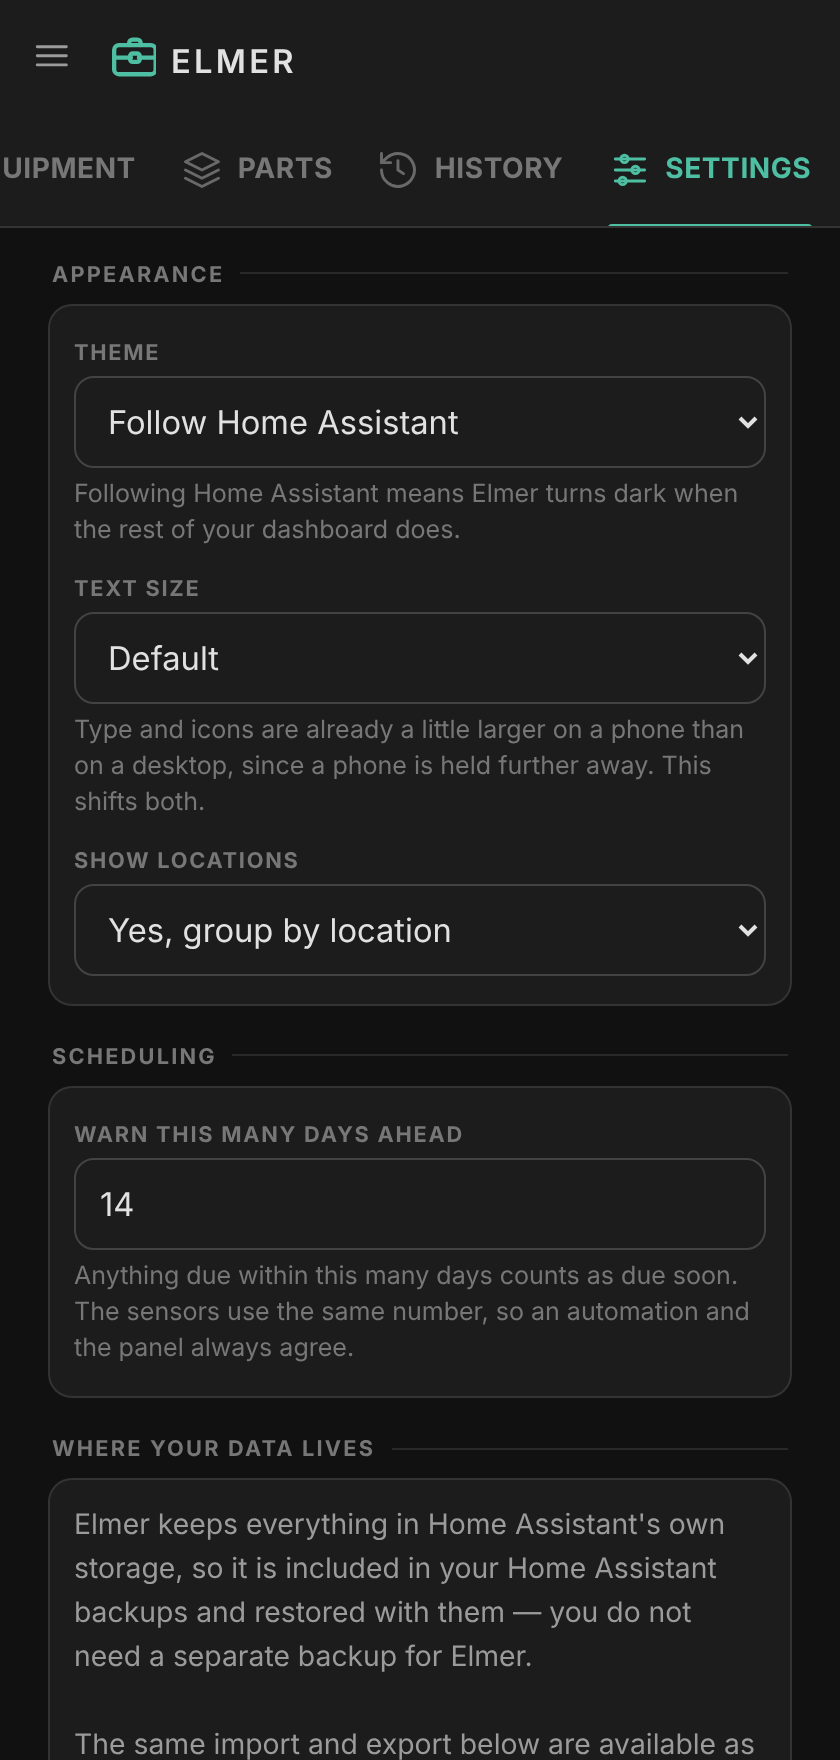
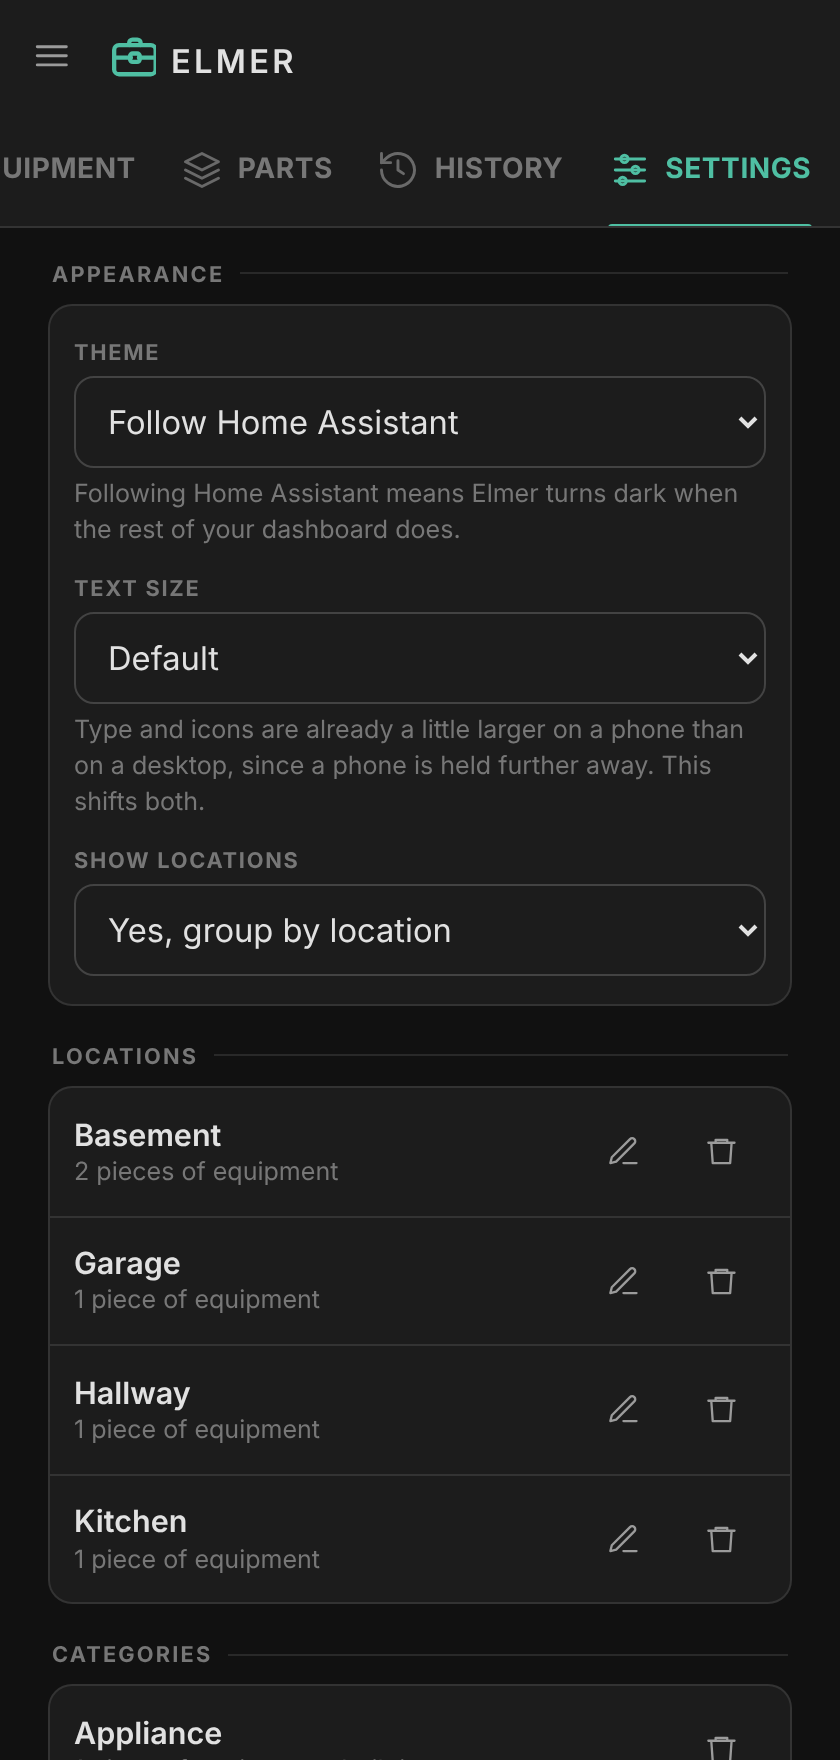
Add bulk rename/remove for groups
Add Settings entries for locations and categories, including usage counts and rename/remove actions. Renaming or clearing a group updates every matching equipment item in bulk instead of deleting records, and the verification suite now checks the derived Settings list and the equipment regrouping behavior.

diff --git a/custom_components/elmer/frontend/views.js b/custom_components/elmer/frontend/views.js
@@ -608,6 +608,68 @@ export function historyView(state) {
 
 /* --------------------------------------------------------------- settings -- */
 
+/**
+ * The locations and categories in use, with what uses them.
+ *
+ * Neither is a record of its own: they are whatever the equipment says they
+ * are. So renaming one rewrites every piece that carries it, and removing one
+ * clears the field on each — there is nothing else to delete. The count is
+ * shown because both actions touch that many pieces at once.
+ */
+export function groupsInUse(state, field) {
+  const counts = new Map();
+  for (const eq of state.equipment) {
+    const value = (eq[field] || '').trim();
+    if (!value) continue;
+    counts.set(value, (counts.get(value) || 0) + 1);
+  }
+  return [...counts.entries()]
+    .map(([value, count]) => {
+      // A category is either one of Elmer's own — which carries an icon and a
+      // name of its own, and is not ours to rename — or free text somebody
+      // typed, which is. A location is always free text.
+      const built = field === 'category' ? categoryLabel(value) : null;
+      return { value, count, label: built || value, builtIn: !!built };
+    })
+    .sort((a, b) => a.label.localeCompare(b.label));
+}
+
+function groupCard(state, field, empty) {
+  const rows = groupsInUse(state, field);
+  if (!rows.length) return html`<div class="card"><div class="note">${empty}</div></div>`;
+
+  return html`<div class="card">${rows.map((g) => {
+    const tally = `${g.count} ${g.count === 1 ? 'piece' : 'pieces'} of equipment`;
+    return html`<div class="row groprow">
+    <div class="body">
+      <div class="title">${g.label}</div>
+      <div class="sub"><span class="txt">${raw(g.builtIn ? `${esc(tally)} &middot; built in` : esc(tally))}</span></div>
+    </div>
+    ${raw(g.builtIn ? '' : html`<button class="iconbtn" data-act="rename-group" data-field="${field}" data-value="${g.value}"
+      aria-label="Rename ${g.label}">${raw(icon('edit', 16))}</button>`)}
+    <button class="iconbtn" data-act="clear-group" data-field="${field}" data-value="${g.value}"
+      data-label="${g.label}" aria-label="Remove ${g.label}">${raw(icon('trash', 16))}</button>
+  </div>`;
+  })}</div>`;
+}
+
+/** Renaming one of them, in a form rather than a browser prompt. */
+export function groupForm(state, field, value) {
+  const found = groupsInUse(state, field).find((g) => g.value === value) || { count: 0 };
+  const n = found.count;
+  const what = field === 'location' ? 'location' : 'category';
+  return html`<div class="field">
+      <label for="f-group">Name</label>
+      <input id="f-group" name="groupName" value="${value}" data-titlecase autocomplete="off">
+      <div class="hint">Renaming changes it on ${n} ${raw(n === 1 ? 'piece' : 'pieces')} of equipment. A ${what} is not stored on its own — it is whatever the equipment says it is.</div>
+    </div>
+    <div class="btnrow">
+      <button class="btn" data-act="close">Cancel</button>
+      <button class="btn" data-variant="primary" data-act="save-group"
+        data-field="${field}" data-value="${value}">Save</button>
+    </div>`;
+}
+
 export function settingsView(state) {
   const s = state.settings;
   const themes = [['system', 'Follow Home Assistant'], ['light', 'Light'], ['dark', 'Dark']];
@@ -639,6 +701,12 @@ export function settingsView(state) {
         </select>
       </div>
     </div></div>
+
+    <div class="label">Locations</div>
+    ${raw(groupCard(state, 'location', 'No locations yet. They appear here once a piece of equipment has one.'))}
+
+    <div class="label">Categories</div>
+    ${raw(groupCard(state, 'category', 'No categories yet. They appear here once a piece of equipment has one.'))}
 
     <div class="label">Scheduling</div>
     <div class="card"><div style="padding:4px 12px 14px">

diff --git a/custom_components/elmer/frontend/elmer-panel.js b/custom_components/elmer/frontend/elmer-panel.js
@@ -19,7 +19,7 @@ import {
 import {
   routinesView, equipmentView, equipmentDetail, partsView, partDetail, historyView, settingsView,
   equipmentForm, routineForm, partForm, logForm, logDetail, importForm,
-  partRow, partOptions, linkRow,
+  partRow, partOptions, linkRow, groupForm,
 } from './views.js';
 
 const TABS = [
@@ -585,6 +585,11 @@ class ElmerPanel extends HTMLElement {
         return { title: 'History entry', body: logDetail(state, s.id) };
       case 'templates':
         return { title: 'Suggested routines', body: this._templateBody(state, s.id) };
+      case 'group-form':
+        return {
+          title: `Rename ${s.value}`,
+          body: groupForm(state, s.field, s.value),
+        };
       case 'import':
         return { title: 'Import a backup', body: importForm(state, s.file) };
       default:
@@ -725,6 +730,15 @@ class ElmerPanel extends HTMLElement {
         this.range = el.dataset.value;
         this._render();
         return;
+      case 'rename-group':
+        this._openSheet({ kind: 'group-form', field: el.dataset.field, value: el.dataset.value });
+        return;
+      case 'save-group':
+        this._saveGroup(el.dataset.field, el.dataset.value);
+        return;
+      case 'clear-group':
+        this._clearGroup(el.dataset.field, el.dataset.value, el.dataset.label);
+        return;
       case 'add-link':
         this._addLink();
         return;
@@ -839,6 +853,52 @@ class ElmerPanel extends HTMLElement {
    * rebuild every field and throw away whatever else is half-typed in the form.
    * The picker then drops the option, so the same part cannot be added twice.
    */
+  /**
+   * Every piece of equipment carrying a given location or category.
+   *
+   * Neither is a record of its own: they are whatever the equipment says they
+   * are. So renaming one is a bulk edit of everything that carries it, and
+   * removing one clears the field on each — there is nothing else to delete.
+   */
+  _equipmentWith(field, value) {
+    return this.data.equipment.filter((eq) => (eq[field] || '').trim() === value);
+  }
+
+  async _saveGroup(field, value) {
+    const next = titleCase((this._fields().groupName || '').trim());
+    if (!next) return this._flash('Give it a name first.', 'error');
+    if (next === value) { this._closeSheet(); return undefined; }
+
+    const affected = this._equipmentWith(field, value);
+    const ok = await this._apply(affected.map((eq) => ({
+      kind: 'equipment.put',
+      payload: { ...eq, [field]: next },
+    })));
+    if (!ok) return undefined;
+    this._closeSheet();
+    return this._flash(`Renamed on ${affected.length} ${affected.length === 1 ? 'piece' : 'pieces'}`);
+  }
+
+  async _clearGroup(field, value, label) {
+    const affected = this._equipmentWith(field, value);
+    const what = field === 'location' ? 'location' : 'category';
+    const n = `${affected.length} ${affected.length === 1 ? 'piece' : 'pieces'} of equipment`;
+    // Spelled out: it is a bulk edit, and nothing else says how far it reaches
+    // until after it has happened.
+    if (!window.confirm(
+      `Remove the ${what} "${label || value}"?\n\n`
+      + `It is cleared from ${n}. No equipment is deleted — they simply stop `
+      + `having a ${what}.`,
+    )) return undefined;
+
+    const ok = await this._apply(affected.map((eq) => ({
+      kind: 'equipment.put',
+      payload: { ...eq, [field]: '' },
+    })));
+    if (!ok) return undefined;
+    return this._flash(`Removed from ${n}`);
+  }
+
   /** Another empty link row, focused so you can start typing in it. */
   _addLink() {
     const list = this.shadowRoot.querySelector('.sheet .linklist');

diff --git a/custom_components/elmer/frontend/styles.js b/custom_components/elmer/frontend/styles.js
@@ -1122,6 +1122,18 @@ a.btn { text-decoration: none; }
   text-align: center;
 }
 
+/* A location or category in the Settings list. The row itself is not a link —
+   the two buttons on it are the only things that do anything — so it keeps the
+   divider that separates it from the next one but not the cursor or the hover
+   tint that would promise a page behind it. */
+.row.groprow {
+  cursor: default;
+  gap: 6px;
+  min-height: calc(52px * var(--ui-scale));
+}
+.row.groprow:hover, .row.groprow:active { background: none; }
+.row.groprow .title { font-size: calc(14px * var(--ui-scale)); }
+
 .iconpick {
   display: grid;
   grid-template-columns: repeat(auto-fill, minmax(46px, 1fr));

diff --git a/README.md b/README.md
@@ -30,18 +30,6 @@ Equipment" — so a control whose action changes with the screen still tells you
 what it will do before you press it. Screens with nothing to add leave it out,
 and because it is last in the row nothing else moves.
 
-The header, the tab row and the list all share one column, so their edges line
-up at every width.
-
-Surfaces, text, dividers and card geometry come from Home Assistant's own theme
-variables, so Elmer sits inside whatever theme you run rather than painting its
-own panel on top of it. Status colours stay Elmer's, because overdue has to mean
-the same thing in every theme. A theme can override them:
-`--elmer-accent`, `--elmer-overdue-color`, `--elmer-due-color`.
-
-Tap targets clear 44px and safe-area insets are honoured, so it works held in
-one hand.
-
 <p>
   <img src="https://raw.githubusercontent.com/philecker/elmer-ha/main/images/routines-dark.png" alt="The Routines screen on a dark theme" width="250">
   <img src="https://raw.githubusercontent.com/philecker/elmer-ha/main/images/log-service-dark.png" alt="Logging a service, with the parts it uses" width="250">
@@ -232,49 +220,6 @@ Assistant already has open to your browser, so Nabu Casa and a VPN both work
 with no extra configuration, and nothing new is exposed to your network.
 
 ---
-
-## Working on it
-
-```bash
-npm install --no-save playwright@1.49.1 esbuild@0.24.2
-npx playwright install chromium
-
-python3 tools/verify-package.py     # repository structure, manifest, brand sizes
-python3 tools/verify-schedule.py    # the date maths against its reference
-python3 tools/verify-store.py       # imports, stock, undo, ordering
-node    tools/verify-panel.mjs      # the panel, in a real browser
-
-pip install --no-deps homeassistant
-python3 tools/verify-imports.py     # every Home Assistant API this uses still exists
-```
-
-Three build steps produce committed files, so re-run the relevant one after a
-change rather than editing its output:
-
-```bash
-node tools/build-brand.mjs        # the integration's icon and logo
-node tools/build-screenshots.mjs  # the images in this README
-node tools/build-preview.mjs      # a standalone preview page, no install needed
-```
-
-`verify-schedule.py` runs about 82,000 inputs through both the Python and the
-reference implementation in `tools/reference/`, and fails on any divergence —
-month-end clamping, leap days, negative intervals and malformed dates included.
-Date arithmetic fails quietly, so it is compared rather than trusted.
-
-`verify-panel.mjs` drives the real panel in Chromium: it completes a routine and
-checks the stock drew down, undoes it and checks the stock came back exactly,
-triple-taps to prove a double tap cannot log twice, types into a form and pushes
-an outside change to prove the form is not wiped, feeds markup through every
-text field to prove it is escaped, and measures tap targets, alignment and
-colour contrast at phone and desktop widths.
-
-`verify-imports.py` reads Home Assistant's source rather than importing it, so
-it runs without the full dependency tree. It is the check that catches an API
-being renamed or removed under you.
-
-Everything above runs on every push through `.github/workflows/validate.yml`,
-alongside Home Assistant's own `hassfest` and the HACS action.
 
 ## Known limits
 
